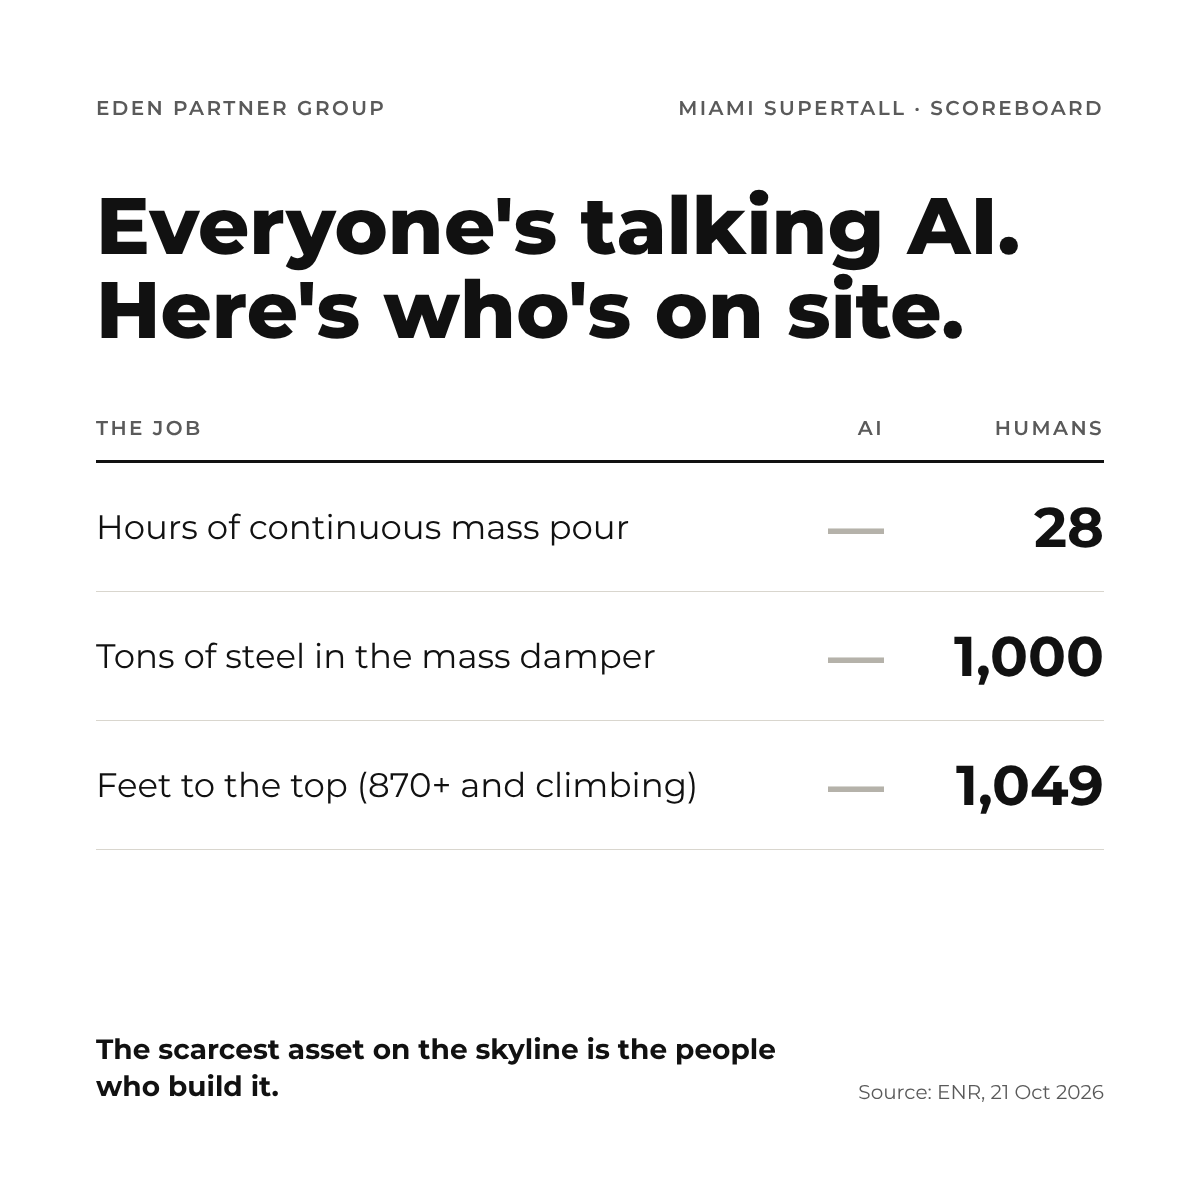
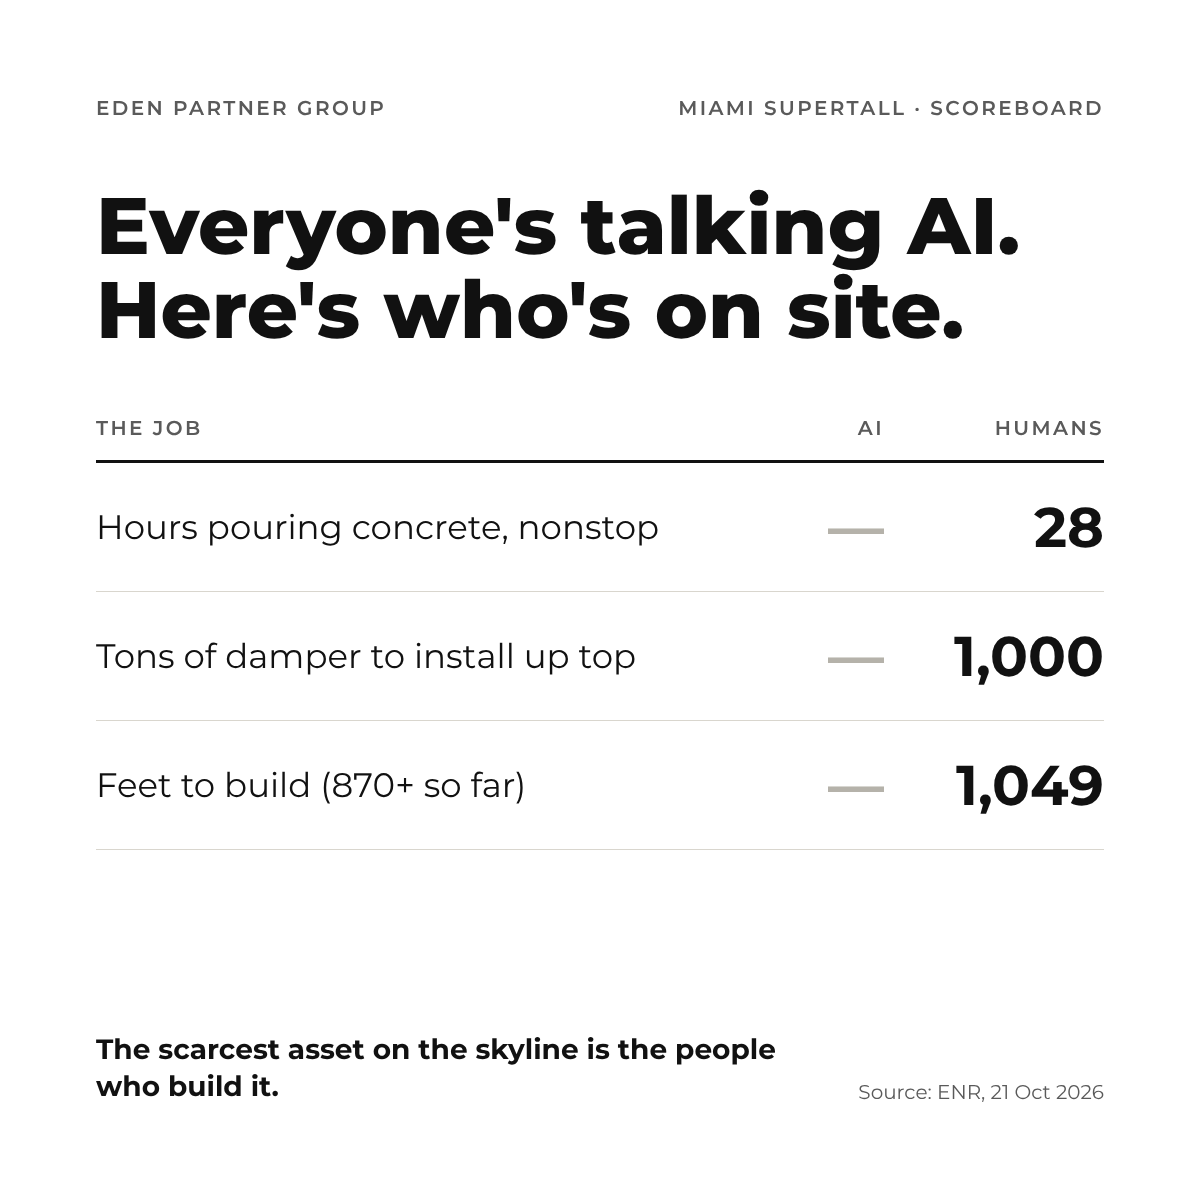
Jenny: supertall scoreboard rows lead with the verbs (Kev)
Claude-Session: https://claude.ai/code/session_01HWXpQMMCrS1aHrLGE4iPN9

Changed region(s): [[0.185, 0.6475, 0.5858, 0.6783], [0.185, 0.5242, 0.555, 0.555], [0.185, 0.4317, 0.555, 0.4625]]

diff --git a/projects/comms/graphics/2026-10-27-supertall/c.html b/projects/comms/graphics/2026-10-27-supertall/c.html
@@ -15,8 +15,8 @@ td.z{text-align:right;font-size:56px;font-weight:700;width:160px;color:#B5B2AA}
 <div class="lab"><span class="lab">Eden Partner Group</span><span class="lab">Miami supertall · Scoreboard</span></div>
 <h1>Everyone's talking AI.<br>Here's who's on site.</h1>
 <table><tr><th>The job</th><th>AI</th><th>Humans</th></tr>
-<tr><td>Hours of continuous mass pour</td><td class="z">—</td><td class="n">28</td></tr>
-<tr><td>Tons of steel in the mass damper</td><td class="z">—</td><td class="n">1,000</td></tr>
-<tr><td>Feet to the top (870+ and climbing)</td><td class="z">—</td><td class="n">1,049</td></tr></table>
+<tr><td>Hours pouring concrete, nonstop</td><td class="z">—</td><td class="n">28</td></tr>
+<tr><td>Tons of damper to install up top</td><td class="z">—</td><td class="n">1,000</td></tr>
+<tr><td>Feet to build (870+ so far)</td><td class="z">—</td><td class="n">1,049</td></tr></table>
 <div class="foot"><b>The scarcest asset on the skyline is the people who build it.</b><span>Source: ENR, 21 Oct 2026</span></div>
 </body></html>
